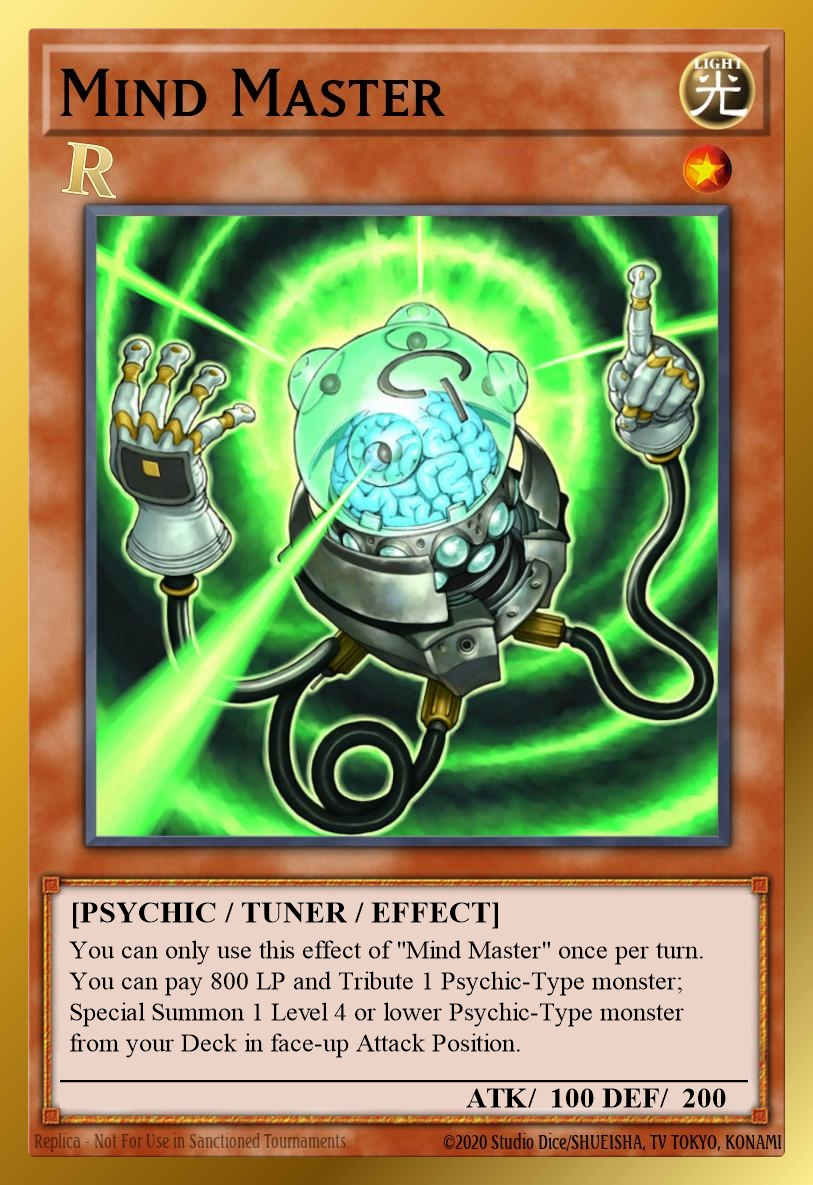
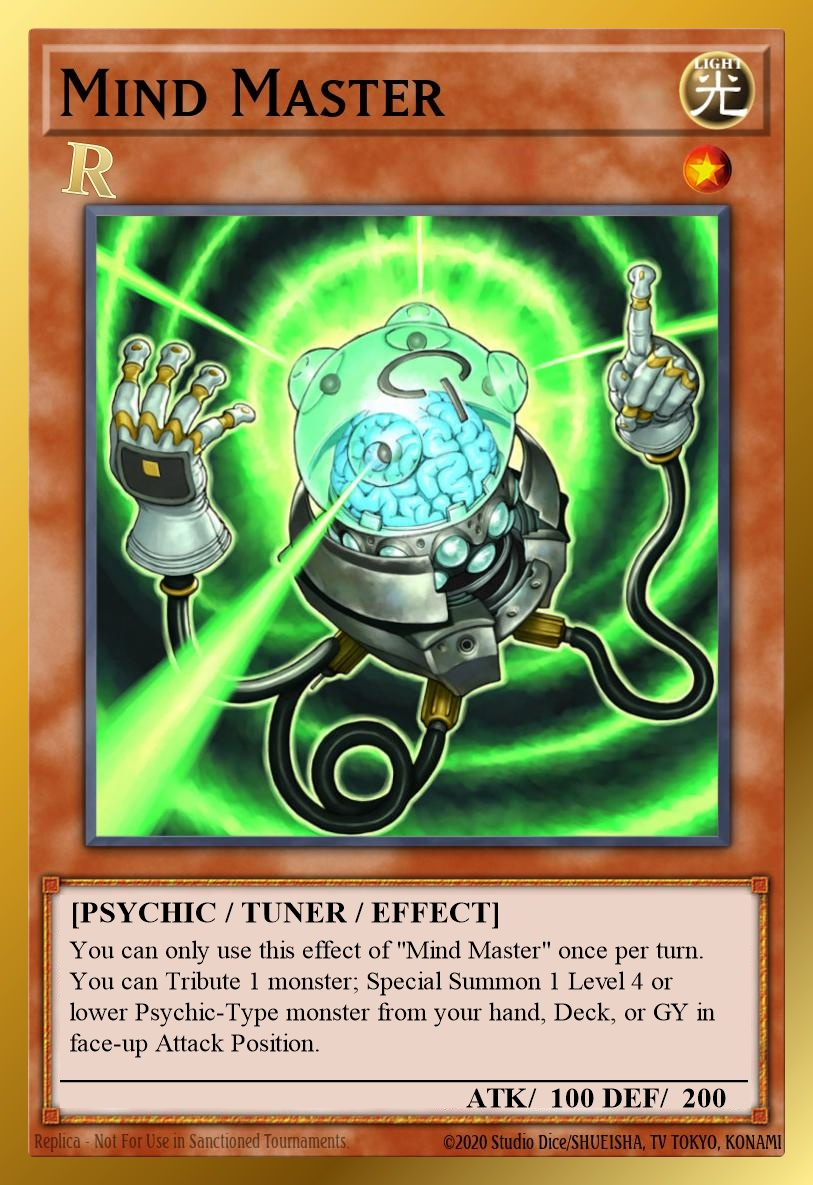
Mind Master: Buff but now limited

Changed region(s): [[0.0923, 0.8118, 0.8918, 0.9055]]

diff --git a/Redux/scripts/build-cards-unofficial-cdb.js b/Redux/scripts/build-cards-unofficial-cdb.js
@@ -87,7 +87,7 @@ module.exports = function buildCardsUnofficialDb({ reduxRoot }) {
   const mindMasterTextResult = db
     .prepare("UPDATE texts SET desc = ? WHERE id = ?")
     .run(
-      'You can only use this effect of "Mind Master" once per turn. You can pay 800 LP and Tribute 1 Psychic-Type monster; Special Summon 1 Level 4 or lower Psychic-Type monster from your Deck in face-up Attack Position.',
+      'You can only use this effect of "Mind Master" once per turn. You can Tribute 1 monster; Special Summon 1 Level 4 or lower Psychic-Type monster from your hand, Deck, or GY in face-up Attack Position.',
       511003019,
     ); // Mind Master (Pre-Errata)
   const diskCommanderTextResult = db

diff --git a/Redux/scripts/build-lflist.js b/Redux/scripts/build-lflist.js
@@ -16,7 +16,7 @@ const limitChanges = new Map([
   ["34206604", 1], // Magical Scientist
   ["78706415", 1], // Fiber Jar
   ["74191942", 1], // Painful Choice
-  ["511003019", 3], // Mind Master (Pre-Errata)
+  ["511003019", 1], // Mind Master (Pre-Errata)
   ["511003116", 3], // Destiny HERO - Disk Commander (Pre-Errata)
   ["511002996", 1], // Imperial Order (Pre-Errata)
   ["33184167", 3], // Tribe-Infecting Virus

diff --git a/README.md b/README.md
@@ -112,7 +112,7 @@ Redux Limits: `0` = forbidden; `1` = limited; `2` = semi-limited; `3` = unlimite
 | `3` [Destiny HERO - Disk Commander](https://yugioh.fandom.com/wiki/Destiny_HERO_-_Disk_Commander) | 🔄 Once per turn; draw 1 on any Special Summon |
 | `3` [Exchange of the Spirit](https://yugioh.fandom.com/wiki/Exchange_of_the_Spirit) | ⬇ once per duel (later format official errata) |
 | `3` [Makyura the Destructor](https://yugioh.fandom.com/wiki/Makyura_the_Destructor) | ⬆ ATK/DEF: 1600/1200 to 1900/1900 |
-| `3` [Mind Master](https://yugioh.fandom.com/wiki/Mind_Master) | ⬇ Once per turn |
+| `1` [Mind Master](https://yugioh.fandom.com/wiki/Mind_Master) | 🔄 Once per turn; no LP cost; tributes any monster; summons from hand/Deck/GY |
 | `3` [Night Assailant](https://yugioh.fandom.com/wiki/Night_Assailant) | ⬇ Once per turn |
 | `3` [Number 12: Crimson Shadow Armor Ninja](https://yugioh.fandom.com/wiki/Number_12:_Crimson_Shadow_Armor_Ninja) | ⬇ Costs 2 materials |
 | `3` [Number 20: Giga-Brilliant](https://yugioh.fandom.com/wiki/Number_20:_Giga-Brilliant) | ⬆ Gives 300 ATK/DEF |
@@ -279,7 +279,7 @@ Redux Limits: `0` = forbidden; `1` = limited; `2` = semi-limited; `3` = unlimite
 | [Temple of the Kings](https://yugioh.fandom.com/wiki/Temple_of_the_Kings) | 0 | `3` | 0 |  |
 | [Time Seal](https://yugioh.fandom.com/wiki/Time_Seal) | 0 | `3` | 0 |  |
 | [Tribe-Infecting Virus](https://yugioh.fandom.com/wiki/Tribe-Infecting_Virus) | 0 | `3` | 0 |  |
-| [Mind Master](https://yugioh.fandom.com/wiki/Mind_Master) | 1 | `3` | 0 | ⬇ |
+| [Mind Master](https://yugioh.fandom.com/wiki/Mind_Master) | 1 | `1` | 0 | 🔄 |
 | [Allure of Darkness](https://yugioh.fandom.com/wiki/Allure_of_Darkness) | 1 | `3` | 1 |  |
 | [Left Arm of the Forbidden One](https://yugioh.fandom.com/wiki/Left_Arm_of_the_Forbidden_One) | 1 | `3` | 1 |  |
 | [Left Leg of the Forbidden One](https://yugioh.fandom.com/wiki/Left_Leg_of_the_Forbidden_One) | 1 | `3` | 1 |  |
